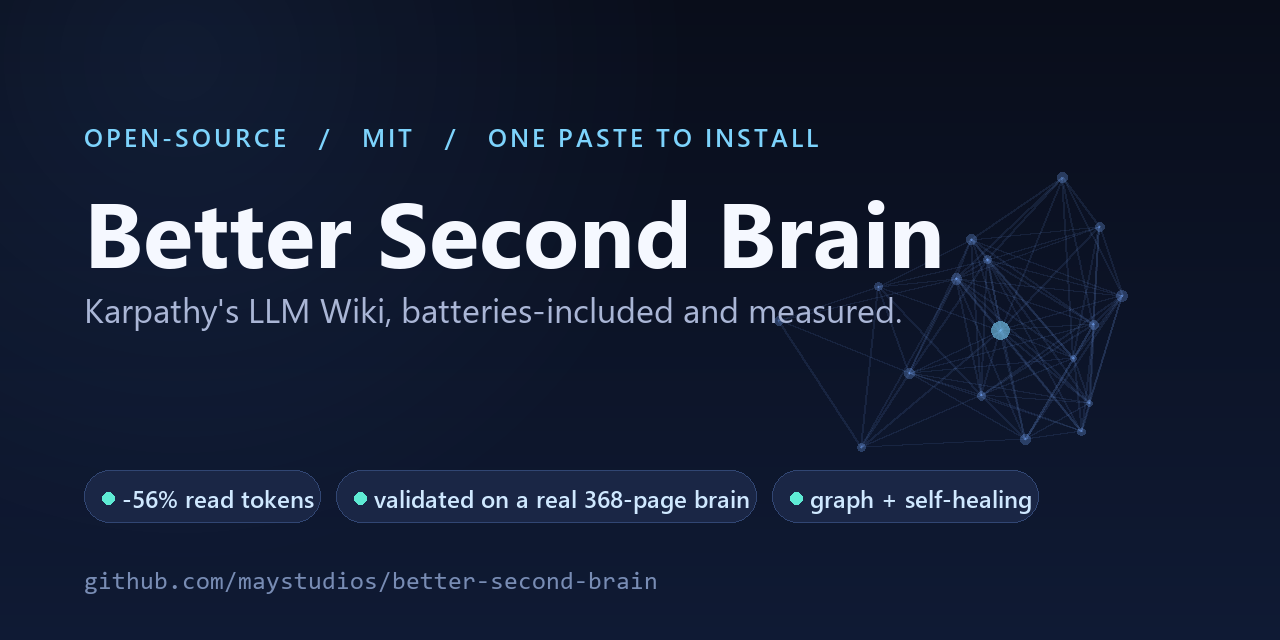
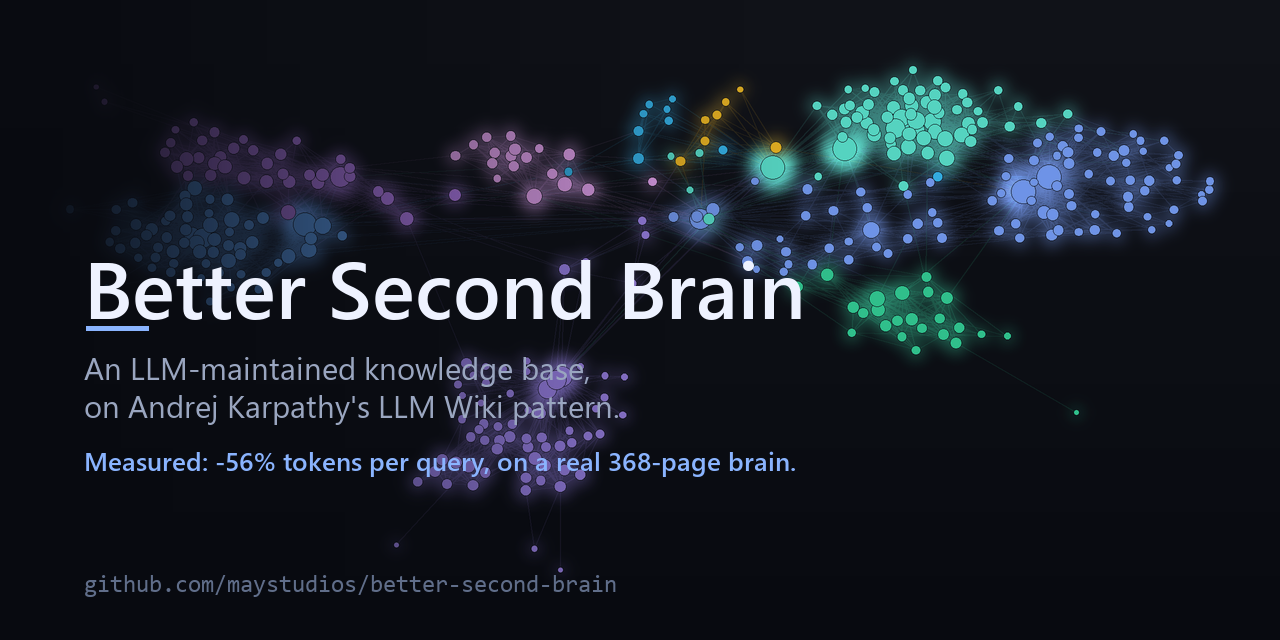
assets: redesign social card as the real 382-node knowledge graph
Replace the AI-generic card (pills, leading dots, fake motif) with the genuine
look of a second brain: the actual force-directed knowledge graph of a real
368-page vault (382 nodes / 2161 edges / 9 communities), coloured by community
with glow, anti-aliased (2x supersample). Clean typography, no pills/dots/emoji.

Background data is assets/graph-sample.json -- anonymised (degrees + communities
+ edge indices only, no labels), so the card is reproducible and leaks no content.

diff --git a/assets/make_social.py b/assets/make_social.py
@@ -1,118 +1,132 @@
 #!/usr/bin/env python3
-"""Generate assets/social-preview.png (1280x640) for the GitHub repo social card.
+"""Generate assets/social-preview.png (1280x640).
 
-Deterministic, dependency-light (Pillow). Re-run after changing copy:
-    python assets/make_social.py
+The background is the REAL knowledge graph of a 368-page second brain (382 nodes,
+2161 edges, 9 communities) laid out force-directed and coloured by community -- the
+genuine "second brain graph" look, not a decorative motif. Node/edge structure is
+the anonymised `assets/graph-sample.json` (degrees + communities + edges, no labels).
+
+Deterministic. Re-run:  python assets/make_social.py
+Deps: Pillow, networkx, numpy (all ship with graphify).
 """
 from __future__ import annotations
-import math
+import json, math
 from pathlib import Path
-from PIL import Image, ImageDraw, ImageFont
+import networkx as nx
+from PIL import Image, ImageDraw, ImageFont, ImageFilter, ImageChops
 
-W, H = 1280, 640
-OUT = Path(__file__).resolve().parent / "social-preview.png"
+HERE = Path(__file__).resolve().parent
+W, H, S = 1280, 640, 2            # final size + supersample factor
 FONTS = "C:/Windows/Fonts"
+BG = (8, 10, 16)                   # near-black, Obsidian-graph dark
+PALETTE = [(122,162,255),(94,234,212),(167,139,250),(96,165,250),(192,132,252),
+           (52,211,153),(240,171,252),(56,189,248),(251,191,36)]
 
 
 def font(name, size):
     return ImageFont.truetype(f"{FONTS}/{name}.ttf", size)
 
 
-def lerp(a, b, t):
-    return tuple(round(a[i] + (b[i] - a[i]) * t) for i in range(3))
+# ---- load real graph + force layout ----
+d = json.loads((HERE / "graph-sample.json").read_text())
+n, comm, deg, edges = d["n"], d["community"], d["degree"], d["edges"]
+G = nx.Graph()
+G.add_nodes_from(range(n))
+G.add_edges_from(edges)
+pos = nx.spring_layout(G, k=1.05 / math.sqrt(n), iterations=90, seed=5)
+xs = [pos[i][0] for i in range(n)]
+ys = [pos[i][1] for i in range(n)]
+x0, x1, y0, y1 = min(xs), max(xs), min(ys), max(ys)
+PAD = 70 * S
+CW, CH = W * S, H * S
 
 
-def text_w(draw, s, f, tracking=0):
-    if tracking == 0:
-        return draw.textlength(s, font=f)
-    return sum(draw.textlength(c, font=f) + tracking for c in s) - tracking
+def P(i):
+    x = PAD + (pos[i][0] - x0) / (x1 - x0) * (CW - 2 * PAD)
+    y = PAD + (pos[i][1] - y0) / (y1 - y0) * (CH - 2 * PAD)
+    return x, y
 
 
-def draw_tracked(draw, xy, s, f, fill, tracking):
-    x, y = xy
-    for c in s:
-        draw.text((x, y), c, font=f, fill=fill)
-        x += draw.textlength(c, font=f) + tracking
+def col(i, a=255):
+    c = PALETTE[comm[i] % len(PALETTE)]
+    return (c[0], c[1], c[2], a)
 
 
-# --- canvas + vertical gradient ---
-img = Image.new("RGB", (W, H))
-top, bot = (9, 13, 26), (15, 26, 52)
-px = img.load()
-for y in range(H):
-    row = lerp(top, bot, y / (H - 1))
-    for x in range(W):
-        px[x, y] = row
-draw = ImageDraw.Draw(img, "RGBA")
+# ---- render background at 2x ----
+base = Image.new("RGB", (CW, CH), BG)
+# subtle vertical sheen
+sh = Image.new("L", (1, CH))
+for y in range(CH):
+    sh.putpixel((0, y), int(10 * (1 - y / CH)))
+base = ImageChops.add(base, Image.merge("RGB", [sh.resize((CW, CH))] * 3))
 
-# --- soft radial glow (top-left, blue) ---
-glow = Image.new("RGBA", (W, H), (0, 0, 0, 0))
+edge_layer = Image.new("RGBA", (CW, CH), (0, 0, 0, 0))
+ed = ImageDraw.Draw(edge_layer)
+for s, t in edges:
+    ed.line([P(s), P(t)], fill=col(s, 30), width=S)
+base = Image.alpha_composite(base.convert("RGBA"), edge_layer).convert("RGB")
+
+# glow layer: every node, brightness ~ degree; blurred + added
+glow = Image.new("RGB", (CW, CH), (0, 0, 0))
 gd = ImageDraw.Draw(glow)
-for r in range(520, 0, -8):
-    a = int(26 * (1 - r / 520))
-    gd.ellipse([180 - r, 60 - r, 180 + r, 60 + r], fill=(80, 150, 255, a))
-img = Image.alpha_composite(img.convert("RGBA"), glow).convert("RGB")
-draw = ImageDraw.Draw(img, "RGBA")
+dmax = max(deg) or 1
+for i in range(n):
+    x, y = P(i)
+    r = (3 + math.sqrt(deg[i]) * 2.4) * S
+    a = 0.30 + 0.70 * (deg[i] / dmax)
+    c = PALETTE[comm[i] % len(PALETTE)]
+    gd.ellipse([x - r, y - r, x + r, y + r], fill=(int(c[0]*a), int(c[1]*a), int(c[2]*a)))
+glow = glow.filter(ImageFilter.GaussianBlur(7 * S))
+base = ImageChops.add(base, glow)
 
-# --- faint knowledge-graph motif (right side) ---
-import random
-random.seed(7)
-nodes = []
-cx, cy = 1000, 330
-for i in range(16):
-    ang = i * (2 * math.pi / 16) + random.uniform(-0.2, 0.2)
-    rad = random.uniform(70, 230)
-    nodes.append((cx + math.cos(ang) * rad, cy + math.sin(ang) * rad * 0.8))
-nodes.append((cx, cy))
-for i, a in enumerate(nodes):
-    for b in nodes[i + 1:]:
-        if math.dist(a, b) < 200:
-            draw.line([a, b], fill=(120, 170, 255, 26), width=2)
-for i, (x, y) in enumerate(nodes):
-    big = i == len(nodes) - 1
-    rr = 9 if big else random.uniform(3, 6)
-    col = (125, 211, 252, 150) if big else (120, 170, 255, 70)
-    draw.ellipse([x - rr, y - rr, x + rr, y + rr], fill=col)
+# crisp nodes on top
+nodes = Image.new("RGBA", (CW, CH), (0, 0, 0, 0))
+nd = ImageDraw.Draw(nodes)
+for i in range(n):
+    x, y = P(i)
+    r = (1.6 + math.sqrt(deg[i]) * 1.25) * S
+    nd.ellipse([x - r, y - r, x + r, y + r], fill=col(i, 255),
+               outline=(*BG, 255), width=max(1, S // 2))
+base = Image.alpha_composite(base.convert("RGBA"), nodes).convert("RGB")
 
-# --- text block (left) ---
-PAD = 84
-SKY = (125, 211, 252)
-WHITE = (245, 248, 255)
-MUTE = (170, 182, 214)
+# ---- downscale for clean anti-aliasing ----
+img = base.resize((W, H), Image.LANCZOS)
 
-f_eyebrow = font("seguisb", 25)
-draw_tracked(draw, (PAD, 120), "OPEN-SOURCE   /   MIT   /   ONE PASTE TO INSTALL", f_eyebrow, SKY, 3)
+# ---- left dark gradient so the title reads over the graph ----
+grad = Image.new("L", (W, 1))
+for x in range(W):
+    t = min(1.0, max(0.0, (x - 60) / (W * 0.62)))
+    grad.putpixel((x, 0), int(238 * (1 - t) ** 1.4))
+mask = grad.resize((W, H))
+overlay = Image.new("RGB", (W, H), BG)
+img = Image.composite(overlay, img, mask)
+# faint overall floor for legibility
+img = Image.composite(Image.new("RGB", (W, H), BG), img, Image.new("L", (W, H), 26))
 
-# Title (fit to width)
-size = 92
-while True:
-    f_title = font("segoeuib", size)
-    if text_w(draw, "Better Second Brain", f_title) <= W - 2 * PAD - 40 or size <= 60:
-        break
+draw = ImageDraw.Draw(img)
+PADX, WHITE, MUTE, ACC = 84, (238, 242, 255), (154, 166, 192), (138, 180, 255)
+
+# title (fit)
+size = 80
+while font("seguisb", size).getlength("Better Second Brain") > W * 0.62 and size > 54:
     size -= 2
-draw.text((PAD, 168), "Better Second Brain", font=f_title, fill=WHITE)
+f_t = font("seguisb", size)
+ty = 232
+draw.text((PADX, ty), "Better Second Brain", font=f_t, fill=WHITE)
+# thin accent rule under title
+draw.rectangle([PADX + 2, ty + size + 14, PADX + 64, ty + size + 18], fill=ACC)
 
-f_sub = font("segoeui", 34)
-draw.text((PAD, 168 + size + 26), "Karpathy's LLM Wiki, batteries-included and measured.", font=f_sub, fill=MUTE)
+f_s = font("segoeui", 31)
+draw.text((PADX, ty + size + 34), "An LLM-maintained knowledge base,", font=f_s, fill=MUTE)
+draw.text((PADX, ty + size + 72), "on Andrej Karpathy's LLM Wiki pattern.", font=f_s, fill=MUTE)
 
-# --- stat chips ---
-chips = ["-56% read tokens", "validated on a real 368-page brain", "graph + self-healing"]
-f_chip = font("seguisb", 24)
-x, y = PAD, 470
-for c in chips:
-    tw = draw.textlength(c, font=f_chip)
-    w = tw + 44
-    draw.rounded_rectangle([x, y, x + w, y + 52], radius=26, fill=(27, 39, 71, 235),
-                           outline=(90, 130, 200, 90), width=1)
-    draw.ellipse([x + 18, y + 22, x + 30, y + 34], fill=(94, 234, 212))
-    draw.text((x + 38, y + 12), c, font=f_chip, fill=(207, 232, 255))
-    x += w + 16
-    if x > W - 320:  # wrap
-        x, y = PAD, y + 66
+f_stat = font("seguisb", 26)
+draw.text((PADX, ty + size + 130),
+          "Measured: -56% tokens per query, on a real 368-page brain.",
+          font=f_stat, fill=ACC)
 
-# --- footer ---
-f_foot = font("consola", 25)
-draw.text((PAD, H - 70), "github.com/maystudios/better-second-brain", font=f_foot, fill=(120, 140, 180))
+f_mark = font("consola", 24)
+draw.text((PADX, H - 66), "github.com/maystudios/better-second-brain", font=f_mark, fill=(96, 110, 138))
 
-img.save(OUT)
-print(f"wrote {OUT}  ({img.size[0]}x{img.size[1]})")
+img.save(HERE / "social-preview.png")
+print(f"wrote social-preview.png  ({W}x{H})  from {n} nodes / {len(edges)} edges")